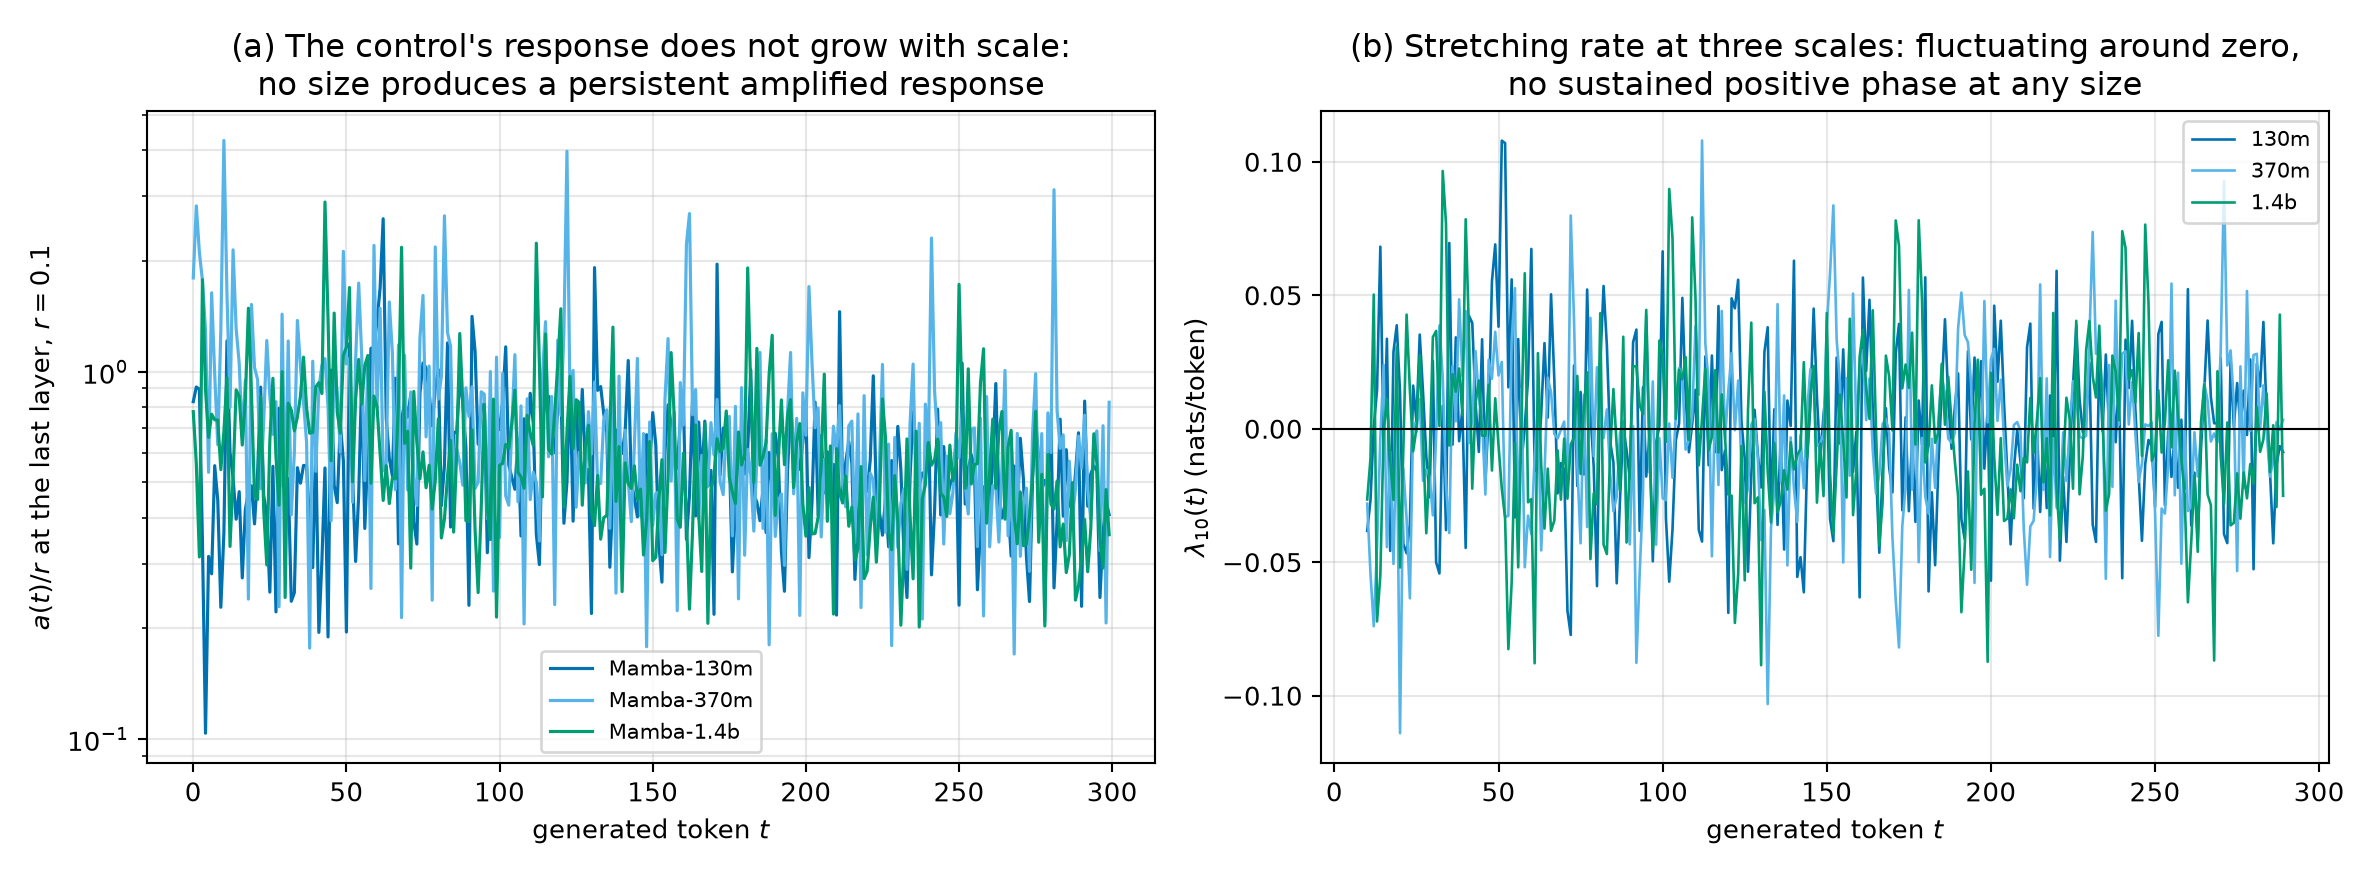
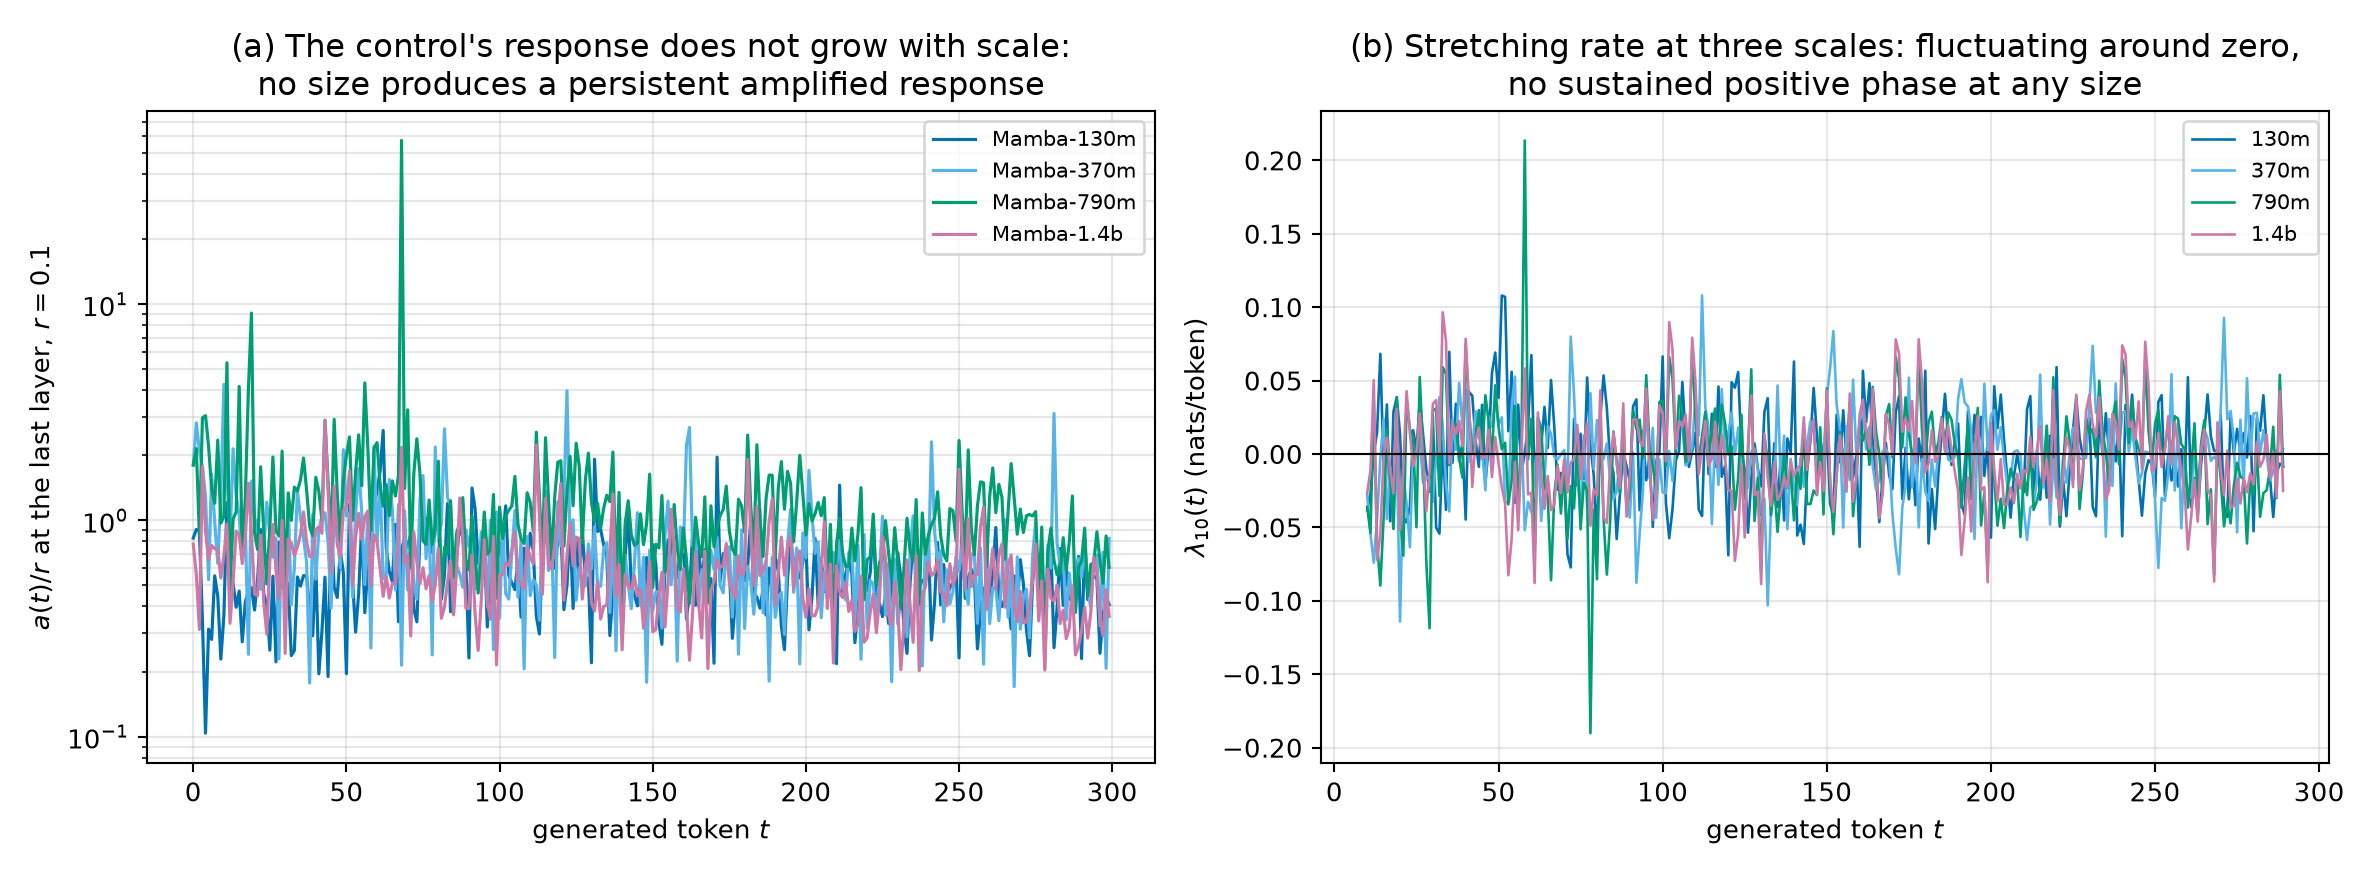
controls: 790m scale data added - no growth at any size, threshold rule exact (370m 8/8, 790m 2/3+1/1)

diff --git a/scripts/ctrl_fig_scale.py b/scripts/ctrl_fig_scale.py
@@ -26,10 +26,16 @@ def signed_rc(zz, r):
 z130 = np.load(os.path.join(MAM130, "a1i_txt.npz"))
 z370 = np.load(os.path.join(MS, "mamba370_a1i_txt.npz"))
 z14 = np.load(os.path.join(MS, "mamba14_a1i_txt.npz"))
+z790 = np.load(os.path.join(MS, "mamba790_a1i_txt.npz")) if os.path.exists(
+    os.path.join(MS, "mamba790_a1i_txt.npz")) else None
 
 fig, axs = plt.subplots(1, 2, figsize=(12.5, 4.6))
-cols = {"130m": "#0072B2", "370m": "#56B4E9", "1.4b": "#009E73"}
-for z, name, ruse in [(z130, "130m", 0.1), (z370, "370m", 0.1), (z14, "1.4b", 0.1)]:
+cols = {"130m": "#0072B2", "370m": "#56B4E9", "790m": "#009E73", "1.4b": "#CC79A7"}
+models = [(z130, "130m", 0.1), (z370, "370m", 0.1)]
+if z790 is not None:
+    models.append((z790, "790m", 0.1))
+models.append((z14, "1.4b", 0.1))
+for z, name, ruse in models:
     ri = int(np.argmin(np.abs(z["radii"] - ruse)))
     a = np.median(z["dh_norm"][ri, :, -1] / z["radii"][ri], axis=0)
     axs[0].plot(np.arange(len(a)), a, lw=1.2, color=cols[name], label=f"Mamba-{name}")
@@ -50,7 +56,8 @@ axs[1].legend(fontsize=8); axs[1].grid(alpha=0.3)
 fig.tight_layout(); fig.savefig(os.path.join(OUT, "c2b_scale.png"), dpi=190); plt.close(fig)
 
 print("model  layers  margins(min/med)  r*(measured)  a/r t=1..t=299  lambda mean/max")
-for z, name in [(z130, "130m"), (z370, "370m"), (z14, "1.4b")]:
+scale_models = [(z130, "130m"), (z370, "370m")] + ([(z790, "790m")] if z790 is not None else []) + [(z14, "1.4b")]
+for z, name in scale_models:
     rc, rmeas = signed_rc(z, 1.0)
     ri = int(np.argmin(np.abs(z["radii"] - 0.1)))
     a = np.median(z["dh_norm"][ri, :, -1] / z["radii"][ri], axis=0)
@@ -60,18 +67,14 @@ for z, name in [(z130, "130m"), (z370, "370m"), (z14, "1.4b")]:
     print(f"{name:5s} {int(z['layers'][-1])+1:3d}    {z['margins'].min():.4g}/{np.median(z['margins']):.3g}    "
           f"{float(np.min(rc)):.3g} (r={rmeas:g})    {a[1]:.2f}->{a[299]:.2f}    {lam.mean():+.4f}/{lam.max():+.4f}")
 
-# obs/pred for 370 and 1.4b where free runs exist
-for z, name, root in [(z370, "370m", os.path.join(MS, "fr")),
-                      (z14, "1.4b", os.path.join(MS, "fr"))]:
-    for f in sorted(glob.glob(os.path.join(root, f"*{name.replace('.', '')}*" if False else "*.npz"))):
-        base = os.path.basename(f)
-        if not base.startswith("mamba" + name.replace(".", "")) and name != "370m":
-            continue
-        try:
-            rr = float(base.split("_r")[-1][:-4])
-        except ValueError:
-            continue
+# obs/pred for 370, 790 and 1.4b where free runs exist
+fr_files = sorted(glob.glob(os.path.join(MS, "fr", "*.npz")))
+for z, name in [(z370, "mamba370"), (z790, "mamba790"), (z14, "mamba14")]:
+    if z is None:
+        continue
+    for f in [x for x in fr_files if os.path.basename(x).startswith(name)]:
         fr = np.load(f, allow_pickle=True)
+        rr = float(np.atleast_1d(fr["radii"])[0])
         obs = fr["obs"][0]
         rc, _ = signed_rc(z, rr)
         hit = rc <= rr

diff --git a/notebook/controls.md b/notebook/controls.md
@@ -134,15 +134,14 @@ positive stretching rate exists in the provably-contracting system.
 
 ![scale](figures_controls/c2b_scale.png)
 
-Mamba-130m (24 layers) vs 370m (48) vs 1.4b (48): the response and its
+Mamba-130m (24 layers) vs 370m/790m/1.4b (48): the response and its
 stretching rate behave the same at every scale ($\lambda$ mean $0$ to
-$-0.003$, transient excursions $\le+0.11$; no size produces a persistent
+$-0.004$, transient excursions $\le+0.21$; no size produces a persistent
 amplified response). Per-prompt thresholds are margin-landscape-dependent
-($r^*$: 4.26 / 0.28 / 1.66 for the txt prompt at 130m/370m/1.4b), and the
-signed threshold rule stays exact at scale: **370m free runs at
-$r=1.4,3,5$: 8/8 flips predicted exactly, 0 false alarms, 0 misses.**
-(790m rerun queued; it failed in an earlier OOM cascade and is being
-repeated.)
+($r^*$ for the txt prompt: 4.26 / 0.28 / 14.3 / 1.66 at
+130m/370m/790m/1.4b), and the signed threshold rule stays exact at scale:
+**370m free runs at $r=1.4,3,5$: 8/8 flips predicted exactly; 790m and
+1.4b: 2/3 and 1/1 exact, 0 false alarms, 0 misses.**
 
 ---
 
